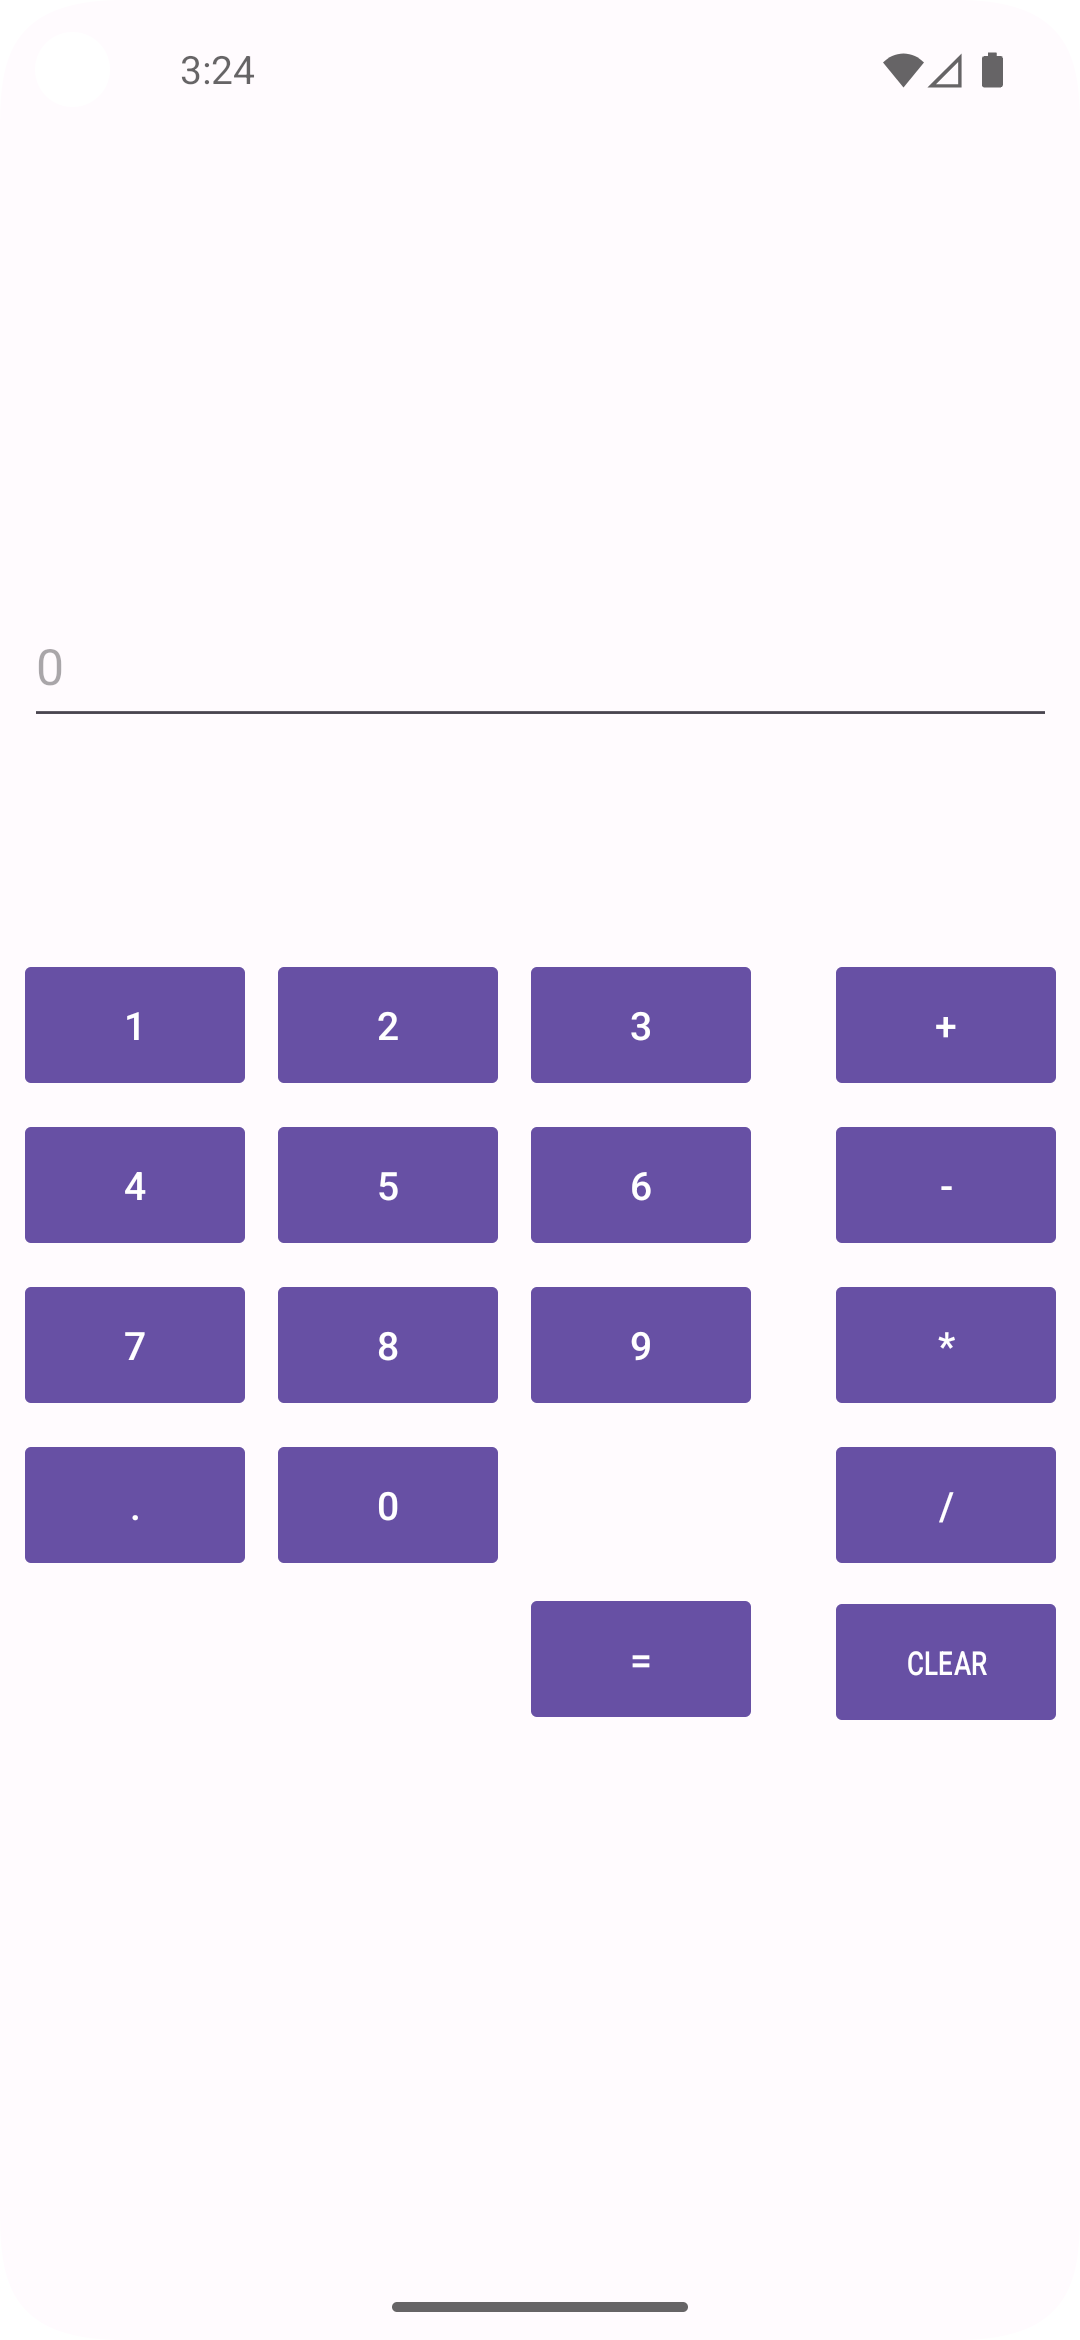
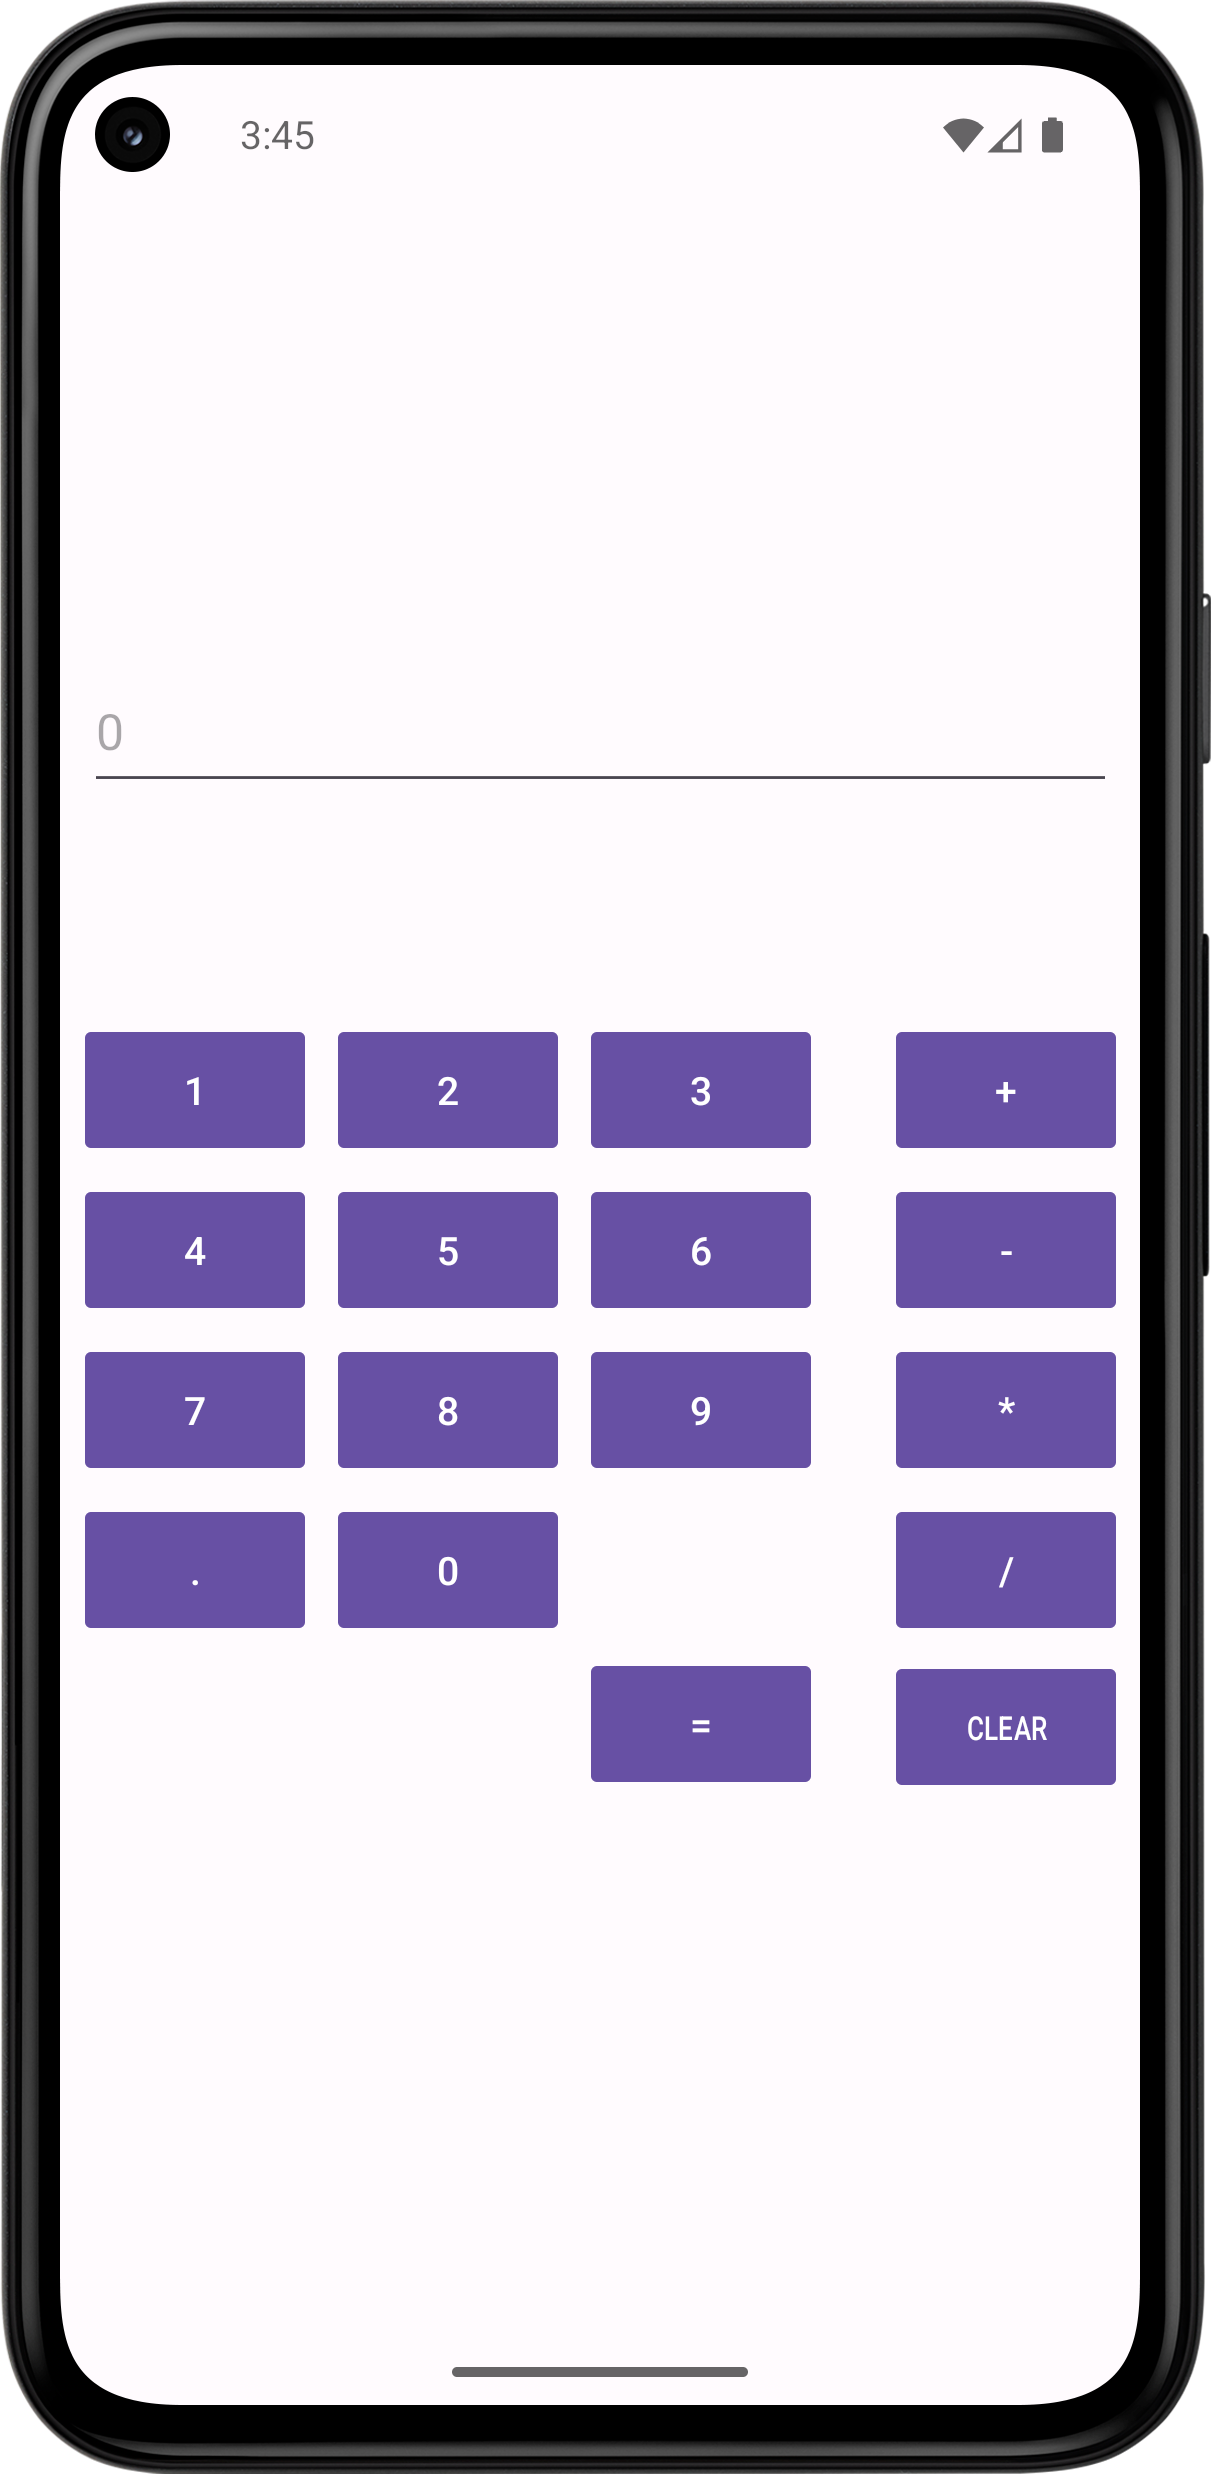
Se ha modificado el README

diff --git a/README.md b/README.md
@@ -7,5 +7,5 @@ Este proyecto consiste en el diseño de la interfaz de una calculadora.
 El diseño es el siguiente:
 
 <p align="center">
-<img src="fotos/diseñoCalculadora.png" alt="Screenshot" width = "320" style="border-radius: 15px; border: 1px solid gray;">
+<img src="fotos/diseñoCalculadora.png" alt="Screenshot" width = "320">
 </p>
